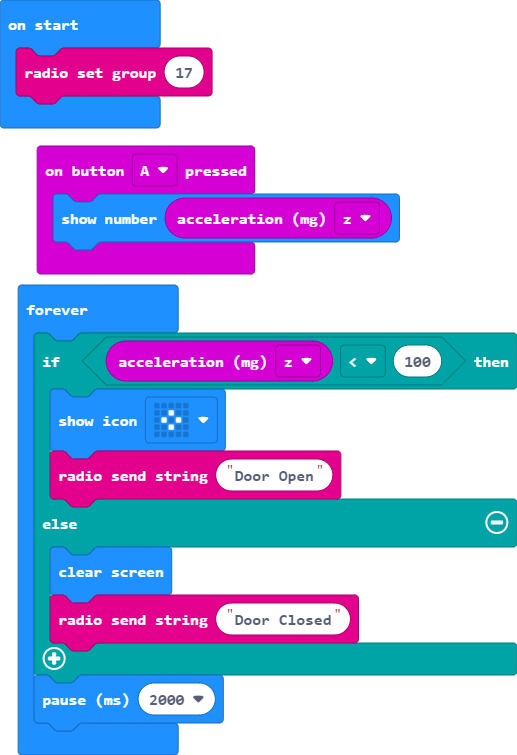
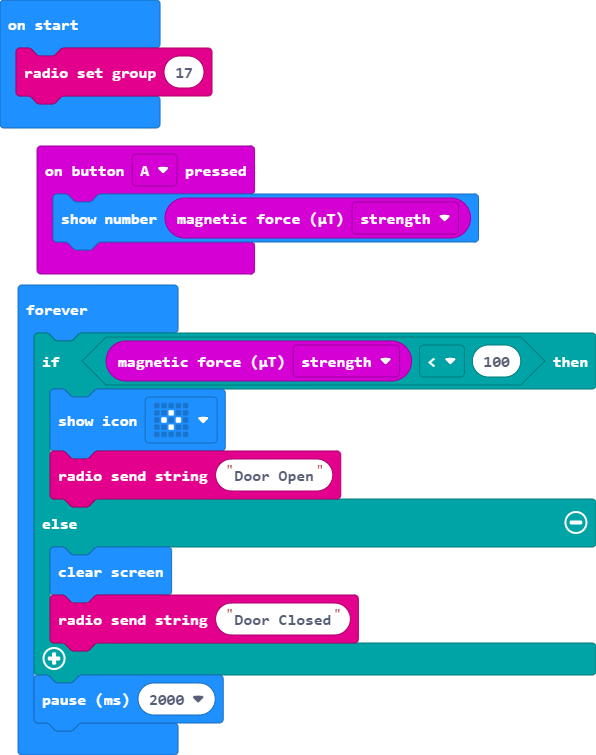
Update main.blocks, main.ts

diff --git a/main.ts b/main.ts
@@ -1,9 +1,9 @@
 input.onButtonPressed(Button.A, function () {
-    basic.showNumber(input.acceleration(Dimension.Z))
+    basic.showNumber(input.magneticForce(Dimension.Strength))
 })
 radio.setGroup(17)
 basic.forever(function () {
-    if (input.acceleration(Dimension.Z) < 100) {
+    if (input.magneticForce(Dimension.Strength) < 100) {
         basic.showIcon(IconNames.SmallDiamond)
         radio.sendString("Door Open")
     } else {
